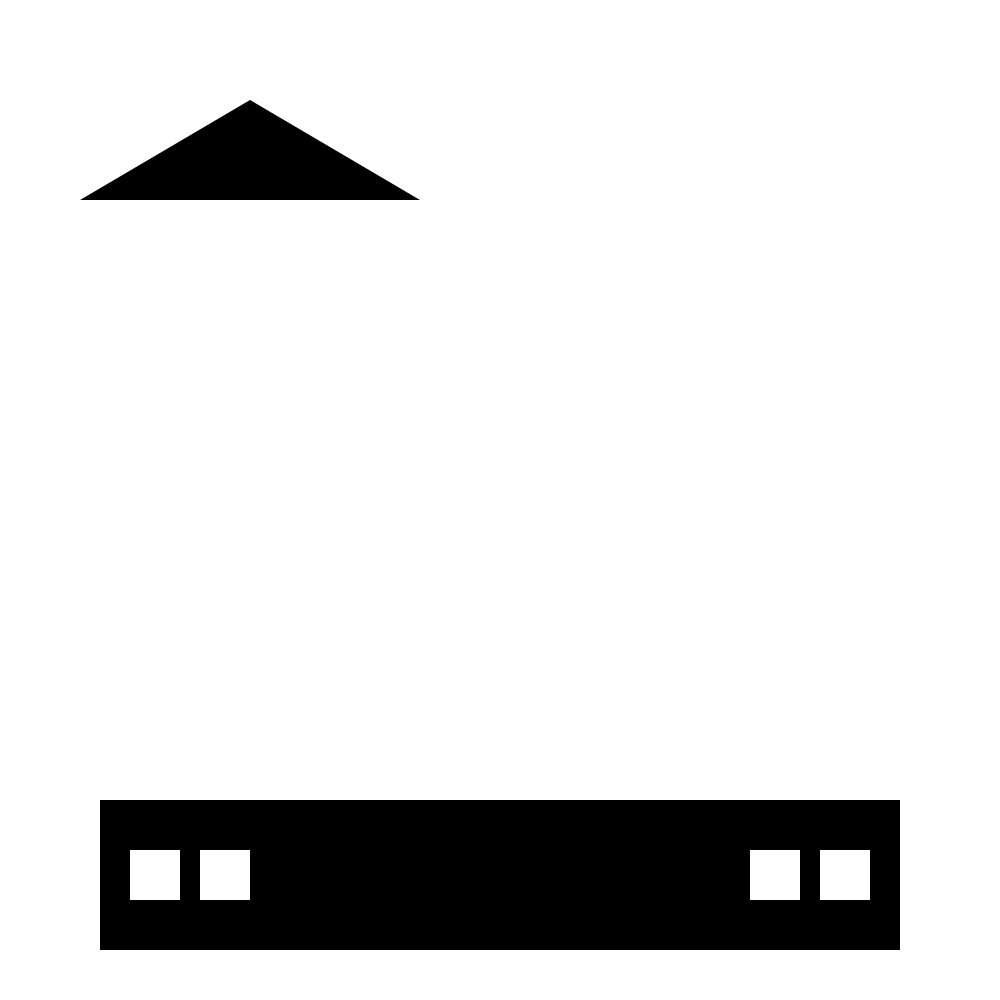
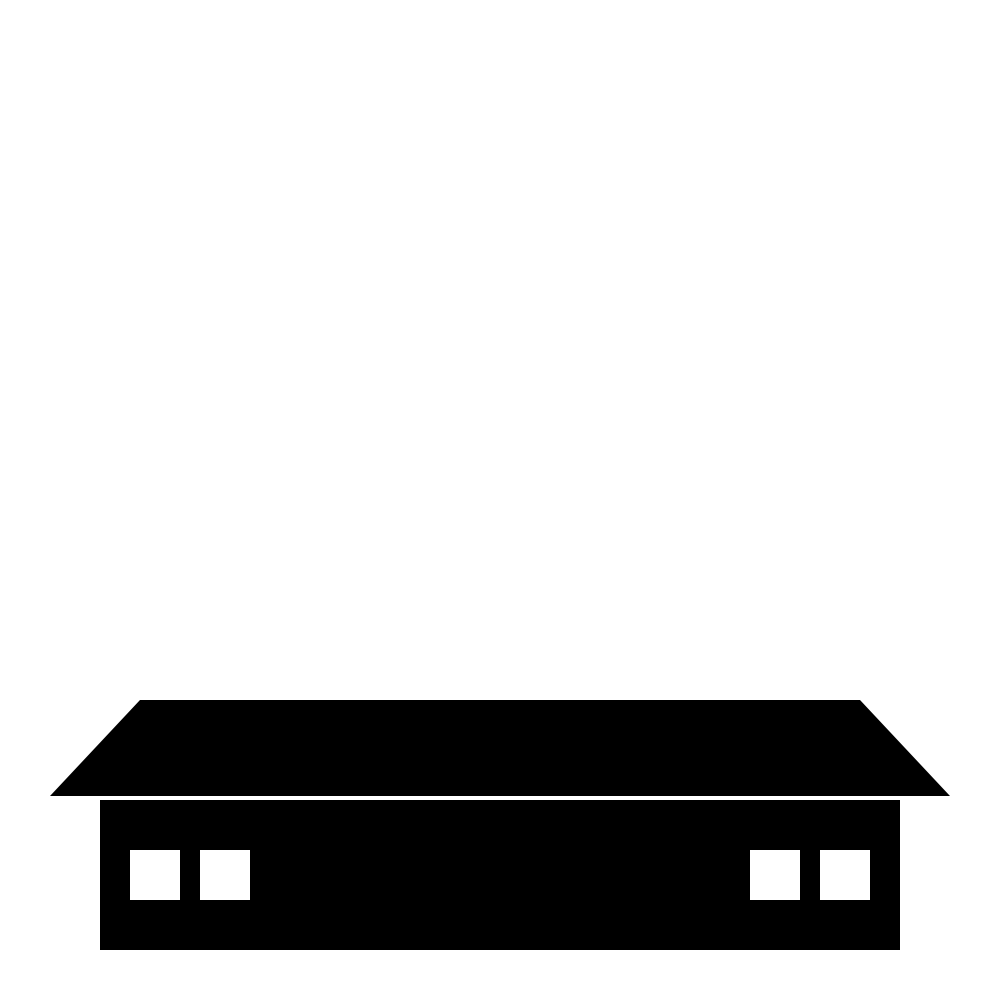
update

Changed region(s): [[0.062, 0.682, 0.961, 0.806], [0.093, 0.093, 0.403, 0.217]]

diff --git a/charpel.py b/charpel.py
@@ -24,13 +24,19 @@ ctx.fill()
 ctx.rectangle(750, 850, 50, 50)  # Right window
 ctx.fill()
 
-# Draw the roof (black triangle)
+
+
 ctx.set_source_rgb(0, 0, 0)  # Set color to black
-ctx.move_to(80, 200)  # Starting point of the triangle
-ctx.line_to(250, 100)  # Peak of the roof
-ctx.line_to(420, 200)  # Right end of the roof
+
+# Define the four points of the trapezium (x, y)
+ctx.move_to(50, 796)  # Bottom-left point
+ctx.line_to(950, 796)  # Bottom-right point
+ctx.line_to(860, 700)  # Top-right point
+ctx.line_to(140, 700)  # Top-left point
 ctx.close_path()  # Connect back to the starting point
+
 ctx.fill()
+
 
 
 
